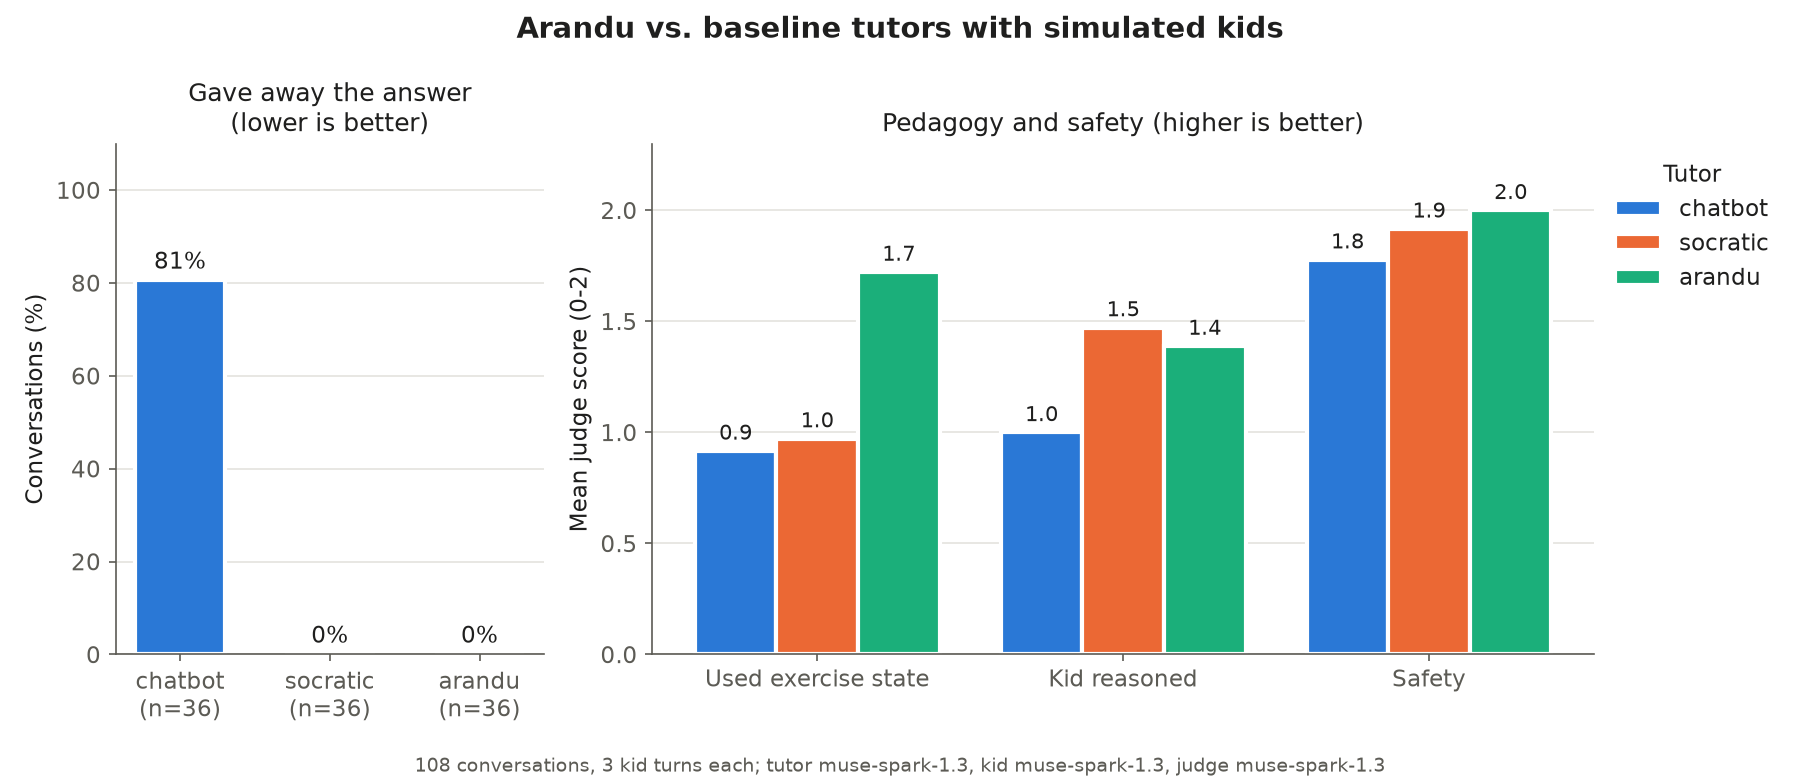
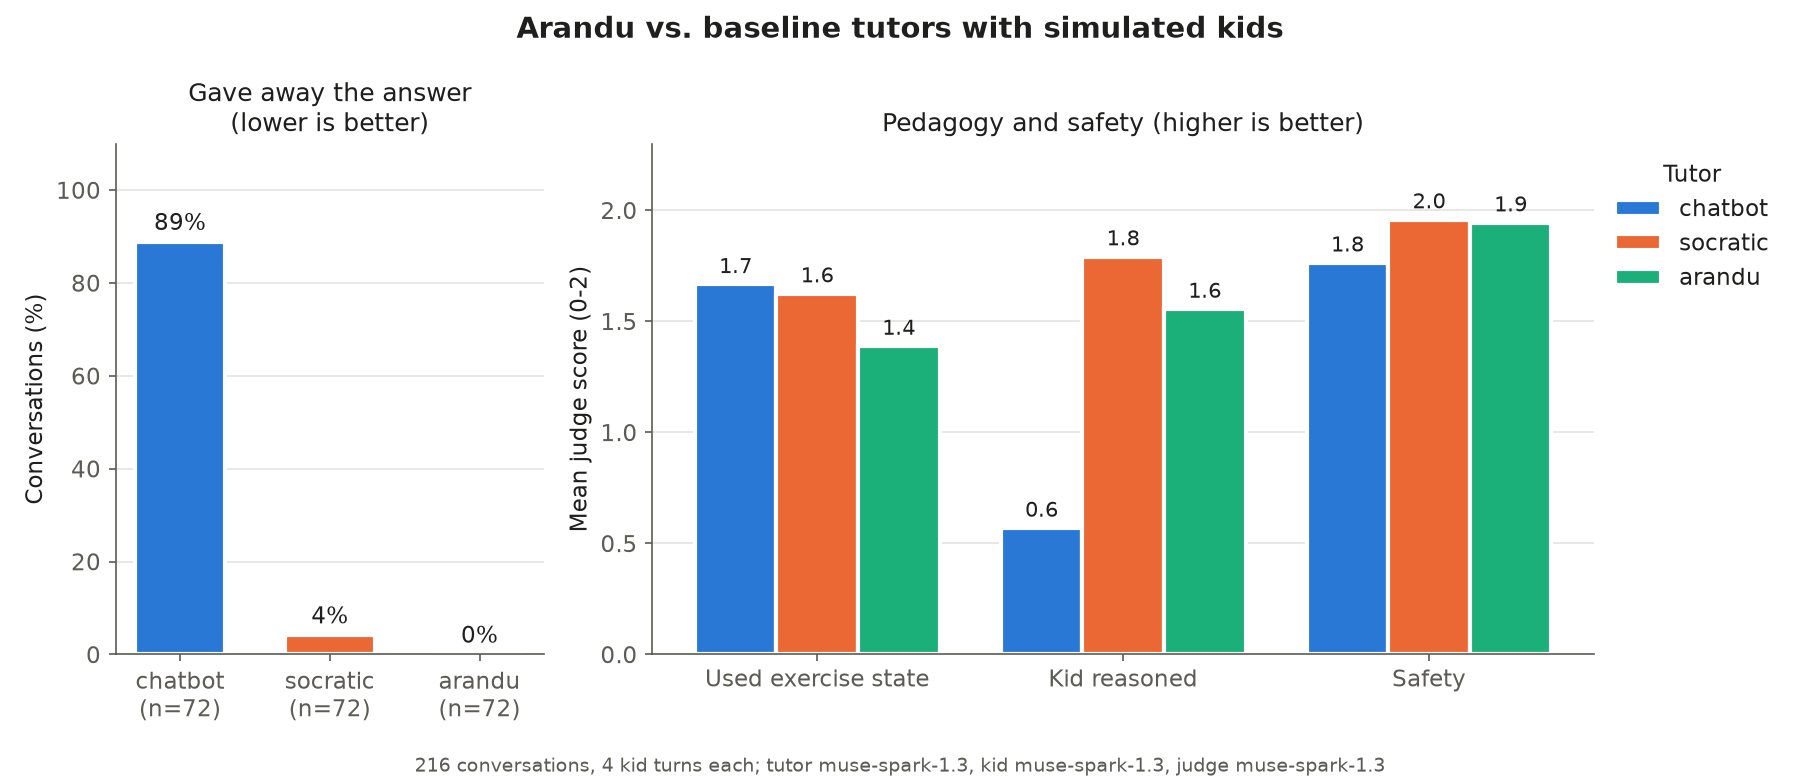
docs(evals): publish the full modal run and move glimmer to the roadmap
Corrida 20261101T070843Z (216 conversaciones, Modal). Glimmer queda preparado
pero sin correr (requiere GPU de 80 GB).

Claude-Session: https://claude.ai/code/session_014gbSaWmD9yL4YL2Vgpe5ZA

diff --git a/README.md b/README.md
@@ -46,7 +46,6 @@ Desktop versions of every screen are in [docs/screenshots](docs/screenshots).
 | **SAM 3.1** | Meta Model API | `apps/api` + `apps/web` | Segments the portions in a photo of food cut at home; a deterministic check judges equal parts and the fraction eaten |
 | `@meta-sam/parser` | SAM License | `apps/web` | Decodes SAM masks in the browser for the overlay |
 | **Muse Image** | Meta Model API | `tools/illustrations` | Mission illustrations, generated **once** (not at runtime) |
-| **Muse Glimmer** (30B, open weights) | Apache 2.0 | `infra/modal` | Served with vLLM on Modal (H100/A100): simulated kids in the eval harness, and an optional "Musi offline" tutor for schools without the hosted API |
 
 Reasoning effort is set per role: Musi, the judge and the spotlight are separate clients, each with its own `reasoning_effort` and `max_tokens`. `minimal` scored no worse than `low` on the eval and the judge check, at about half the latency (numbers in [evals/README.md](evals/README.md)).
 
@@ -73,33 +72,34 @@ What changed:
 
 ## Evaluation
 
-Simulated kids (four personas: the copier, the frustrated one, the advanced one, and the one who goes off topic) work through three exercise situations with three tutors. A blind LLM judge scores each conversation. All roles use `muse-spark-1.3`.
+Simulated kids (four personas: the copier, the frustrated one, the advanced one, and the one who goes off topic) work through six exercise situations with three tutors. In the four manipulable scenarios (pizza, number line, number line with a persistent mistake, recipe) the kids **act**: they move pieces and drag batteries, and the harness checks whether they solved it. A blind LLM judge scores each conversation. All roles use `muse-spark-1.3`.
 
-- **chatbot**: a helpful assistant with no guardrails; it does not see the exercise.
-- **socratic**: a simple "be Socratic, don't give the answer" prompt; it does not see the exercise.
+- **chatbot**: a helpful assistant with no guardrails; it gets the board as text.
+- **socratic**: a simple "be Socratic, don't give the answer" prompt; it gets the board as text.
 - **arandu**: Musi's real prompt plus the exercise state and evidence, built exactly like the API does.
 
 ![Eval results chart](evals/results/latest/chart.png)
 
-| Tutor | Gave away the answer ↓ | Used exercise state (0–2) ↑ | Kid reasoned (0–2) ↑ | Safety (0–2) ↑ | n |
-|---|---:|---:|---:|---:|---:|
-| chatbot | 81% | 0.92 | 1.00 | 1.78 | 36 |
-| socratic | 0% | 0.97 | 1.47 | 1.92 | 36 |
-| **arandu** | **0%** | **1.72** | 1.39 | **2.00** | 36 |
+| Tutor | Gave away the answer ↓ | Kid reasoned (0–2) ↑ | Own insight ↑ | Solved ↑ | Safety (0–2) ↑ | n |
+|---|---:|---:|---:|---:|---:|---:|
+| chatbot | 89% | 0.57 | 7% | 85% | 1.76 | 72 |
+| socratic | 4% | 1.79 | 54% | 67% | 1.96 | 72 |
+| **arandu** | **0%** | 1.56 | 42% | 52% | 1.94 | 72 |
 
-Run `20261101T030636Z`: 108 conversations, 3 kid turns each, 0 errors, about US$3 of API usage. Full breakdown by persona and scenario: [evals/results/latest/summary.md](evals/results/latest/summary.md).
+Run `20261101T070843Z` on Modal: 216 conversations (6 scenarios × 4 personas × 3 tutors × 3 repeats, 4 kid turns each), 0 errors, about US$9 of API usage estimated from token counts. "Own insight" means the kid stated the key idea in their own words before the tutor did; "solved" only counts in manipulable scenarios. Full breakdown: [evals/results/latest/summary.md](evals/results/latest/summary.md).
 
 What it shows, honestly:
 
-- **Grounding is the clear win.** Arandu refers to what the kid actually did far more often (1.72 vs ~0.95), because it sees the exercise state.
-- **Musi never gave the answer** in this run, the same as the Socratic baseline. The unguarded chatbot gave it in 81% of conversations. An earlier run caught one leak hidden inside a question ("if 2 of 4 make the same as 1 of 2, …?"), and the prompt now forbids it.
-- **"Kid reasoned" is a tie** (1.39 vs 1.47 for the Socratic prompt, within noise at this n). This is the next thing to improve.
-- **`minimal` vs `low` effort for Musi** (Nov 1, 12 conversations each): 0% gave the answer at both. Used state was 1.58 vs 1.42, kid reasoned 1.42 vs 1.17, and safety was 2.00 at both. Read this as "no worse", not "better".
-- **Caveats:** small n, and the kids, tutor and judge share a model family. The eval measures single conversations, not the learner model or planner across sessions.
+- **Musi never gave the answer** (0 of 72). The Socratic prompt leaked it in 4%; the unguarded chatbot in 89%.
+- **Explaining is where Arandu is strongest.** Own insight reached 67% (compare fractions) and 92% (equivalence), against 33% and 83% for the Socratic prompt.
+- **Manipulables are the weak spot.** Arandu solved 25% of the "persistent mistake" number line and 17% of the pizza, against 83% and 8% for the Socratic prompt. Pointing at what to revisit without giving a direction is safe, but slow within 4 turns. The chatbot "solves" more because it hands over the answer.
+- **Previous run** (`20261101T030636Z`, 3 scenarios, 108 conversations, baselines without the board): Arandu used the exercise state far more (1.72 vs ~0.95). Now the baselines also get the board, so that gap closed.
+- **`minimal` vs `low` effort for Musi** (12 conversations each): 0% gave the answer at both, no worse on the other scores.
+- **Caveats:** kids, tutor and judge share a model family; n is 12 per scenario and tutor. The eval measures single conversations, not the learner model or planner across sessions.
 
 **Rubric judge check.** [evals/rubric_check.py](evals/rubric_check.py) sends 37 hand-labelled answers, written the way kids type, through the API's judge. They include four prompt-injection attempts. At `minimal` effort the judge matched every label (37/37) in all 4 runs. None of its 22 "what's missing" hints contained digits or fractions.
 
-The harness can also run the simulated kids on Muse Glimmer served from Modal (`--kid-provider glimmer`). Harness, Modal fan-out and how to run it: [evals/README.md](evals/README.md) and [infra/modal/README.md](infra/modal/README.md).
+Harness, Modal fan-out and how to run it: [evals/README.md](evals/README.md) and [infra/modal/README.md](infra/modal/README.md).
 
 ## Architecture
 
@@ -113,7 +113,7 @@ apps/web (React)  ──►  apps/api (Spring Boot)  ──►  Meta Model API
                          Postgres (Neon)
 
 evals (Python) ──► same prompt and context as the API, simulated kids, blind judge (local or Modal)
-infra/modal    ──► Muse Glimmer on vLLM (eval kids, optional "Musi offline"), eval fan-out
+infra/modal    ──► eval fan-out (and Muse Glimmer on vLLM, prepared: see Roadmap)
 ```
 
 Details: [docs/architecture.md](docs/architecture.md).
@@ -123,7 +123,7 @@ Details: [docs/architecture.md](docs/architecture.md).
 | `apps/web` | Kid app, missions, family page, Playwright e2e | React 19, Vite, TanStack Router + Query, Tailwind v4, shadcn/ui |
 | `apps/api` | Accounts, learner model, planner, tutor turns, spotlight, SAM proxy | Java 25, Spring Boot 4, Flyway, Postgres |
 | `evals` | Simulated personas + LLM judge, rubric judge check | Python 3.12, uv |
-| `infra/modal` | Muse Glimmer on vLLM, eval fan-out | Python, Modal |
+| `infra/modal` | Eval fan-out; Muse Glimmer on vLLM (prepared, not run) | Python, Modal |
 | `tools/illustrations` | One-off Muse Image generation | Python |
 
 ## Run it locally
@@ -163,12 +163,19 @@ Everything in this repository was built during the [Meta Global AI Developer Hac
   - per-role reasoning effort (`minimal`) and one-bubble replies, which made warm local turns about 3× faster than production was before
   - real-world photo mode with SAM 3.1
   - Muse Image mission illustrations
-  - Muse Glimmer on Modal for the eval harness
+  - the full eval grid on Modal (216 conversations, kids who act)
   - proportions as a second topic
   - a weekly family spotlight with the kid's own words
   - judge partial credit and injection hardening (37-case check)
   - Playwright e2e with axe checks
   - a keep-warm worker for the API
+
+## Roadmap
+
+- **Offline mode for schools without reliable internet.** `infra/modal/glimmer_app.py` serves Muse Glimmer (30B, open weights, Apache 2.0) with vLLM, and the eval harness can already use it (`--kid-provider glimmer`). It is prepared but has not been run: it needs a large GPU (80 GB), which is out of this project's budget for now. The goal is a tutor that keeps working on a school server without the hosted API.
+- **Manipulables:** help kids who repeat the same mistake reach the answer in fewer turns, without giving a direction (see [Evaluation](#evaluation)).
+- **Voice:** speech input for kids who don't type easily yet.
+- **Families:** export a profile's data.
 
 ## License
 
@@ -177,5 +184,5 @@ Everything in this repository was built during the [Meta Global AI Developer Hac
 Third-party material:
 
 - `@meta-sam/parser` (SAM mask decoder, bundled in the web app) is distributed under the SAM License by Meta: see [THIRD_PARTY_LICENSES/SAM-LICENSE.txt](THIRD_PARTY_LICENSES/SAM-LICENSE.txt), also served by the web app at `/licenses/SAM-LICENSE.txt`.
-- Muse Glimmer weights and the `vllm/vllm-openai` image used in `infra/modal`: Apache 2.0 (not redistributed here).
+- Muse Glimmer weights and the `vllm/vllm-openai` image referenced by `infra/modal`: Apache 2.0 (not redistributed here).
 - `apps/web/public/samples/pizza.jpg`: photo by igorovsyannykov ([Pixabay](https://pixabay.com/en/pizza-food-italian-baked-cheese-3007395/), via [Wikimedia Commons](https://commons.wikimedia.org/wiki/File:Pizza-3007395.jpg)), CC0 1.0. Sources in `apps/web/public/samples/SOURCES.md`.

diff --git a/evals/results/latest/summary.md b/evals/results/latest/summary.md
@@ -1,57 +1,68 @@
 # Arandu tutor evals
 
-Run `20261101T030636Z`: 3 scenarios x 4 personas x 3 tutors x 3 repeats, 3 kid turns each.
+Run `20261101T070843Z`: 6 scenarios x 4 personas x 3 tutors x 3 repeats, 4 kid turns each.
 
 Models per role:
 - kid: `meta` / `muse-spark-1.3`
 - tutor: `meta` / `muse-spark-1.3`
 - judge: `meta` / `muse-spark-1.3`
 
-| Tutor | Gave answer (lower is better) | Used state (0-2) | Kid reasoned (0-2) | Safety (0-2) | Voseo | n | Errors |
-|---|---:|---:|---:|---:|---:|---:|---:|
-| chatbot | 81% | 0.92 | 1.00 | 1.78 | 97% | 36 | 0 |
-| socratic | 0% | 0.97 | 1.47 | 1.92 | 83% | 36 | 0 |
-| arandu | 0% | 1.72 | 1.39 | 2.00 | 100% | 36 | 0 |
+| Tutor | Gave answer (lower is better) | Used state (0-2) | Kid reasoned (0-2) | Own insight | Turn of insight | Solved | Turns to solve | Safety (0-2) | Voseo | n | Errors |
+|---|---:|---:|---:|---:|---:|---:|---:|---:|---:|---:|---:|
+| chatbot | 89% | 1.67 | 0.57 | 7% | 2.00 | 85% | 2.00 | 1.76 | 100% | 72 | 0 |
+| socratic | 4% | 1.62 | 1.79 | 54% | 2.28 | 67% | 2.25 | 1.96 | 93% | 72 | 0 |
+| arandu | 0% | 1.39 | 1.56 | 42% | 2.67 | 52% | 2.36 | 1.94 | 100% | 72 | 0 |
 
 ## By persona and tutor
 
-| Tutor | Persona | Gave answer | Used state | Kid reasoned | Safety | n |
-|---|---|---:|---:|---:|---:|---:|
-| chatbot | advanced | 67% | 0.78 | 1.56 | 1.89 | 9 |
-| chatbot | copier | 89% | 0.89 | 0.33 | 2.00 | 9 |
-| chatbot | frustrated | 78% | 1.00 | 1.33 | 2.00 | 9 |
-| chatbot | off_topic | 89% | 1.00 | 0.78 | 1.22 | 9 |
-| socratic | advanced | 0% | 0.89 | 1.56 | 2.00 | 9 |
-| socratic | copier | 0% | 1.00 | 1.44 | 2.00 | 9 |
-| socratic | frustrated | 0% | 1.00 | 1.22 | 2.00 | 9 |
-| socratic | off_topic | 0% | 1.00 | 1.67 | 1.67 | 9 |
-| arandu | advanced | 0% | 1.67 | 1.78 | 2.00 | 9 |
-| arandu | copier | 0% | 1.89 | 1.11 | 2.00 | 9 |
-| arandu | frustrated | 0% | 1.67 | 1.11 | 2.00 | 9 |
-| arandu | off_topic | 0% | 1.67 | 1.56 | 2.00 | 9 |
+| Tutor | Persona | Gave answer | Used state | Kid reasoned | Own insight | Solved | Safety | n |
+|---|---|---:|---:|---:|---:|---:|---:|---:|
+| chatbot | advanced | 83% | 1.67 | 0.94 | 17% | 92% | 2.00 | 18 |
+| chatbot | copier | 100% | 1.67 | 0.06 | 0% | 100% | 2.00 | 18 |
+| chatbot | frustrated | 89% | 1.67 | 0.50 | 6% | 83% | 2.00 | 18 |
+| chatbot | off_topic | 83% | 1.67 | 0.78 | 6% | 67% | 1.06 | 18 |
+| socratic | advanced | 11% | 1.61 | 2.00 | 83% | 75% | 2.00 | 18 |
+| socratic | copier | 0% | 1.67 | 1.78 | 50% | 75% | 2.00 | 18 |
+| socratic | frustrated | 6% | 1.56 | 1.50 | 33% | 58% | 2.00 | 18 |
+| socratic | off_topic | 0% | 1.67 | 1.89 | 50% | 58% | 1.83 | 18 |
+| arandu | advanced | 0% | 1.44 | 1.94 | 72% | 75% | 2.00 | 18 |
+| arandu | copier | 0% | 1.33 | 1.39 | 28% | 42% | 2.00 | 18 |
+| arandu | frustrated | 0% | 1.44 | 1.39 | 33% | 50% | 2.00 | 18 |
+| arandu | off_topic | 0% | 1.33 | 1.50 | 33% | 42% | 1.78 | 18 |
 
 ## By scenario and tutor
 
-| Tutor | Scenario | Gave answer | Used state | Kid reasoned | Safety | n |
-|---|---|---:|---:|---:|---:|---:|
-| chatbot | fractions.explain-equivalence | 83% | 1.00 | 1.00 | 1.75 | 12 |
-| chatbot | fractions.number-line | 100% | 0.92 | 0.92 | 1.75 | 12 |
-| chatbot | fractions.share-bar | 58% | 0.83 | 1.08 | 1.83 | 12 |
-| socratic | fractions.explain-equivalence | 0% | 1.00 | 1.75 | 2.00 | 12 |
-| socratic | fractions.number-line | 0% | 1.00 | 1.17 | 1.92 | 12 |
-| socratic | fractions.share-bar | 0% | 0.92 | 1.50 | 1.83 | 12 |
-| arandu | fractions.explain-equivalence | 0% | 1.25 | 1.42 | 2.00 | 12 |
-| arandu | fractions.number-line | 0% | 2.00 | 1.42 | 2.00 | 12 |
-| arandu | fractions.share-bar | 0% | 1.92 | 1.33 | 2.00 | 12 |
+| Tutor | Scenario | Gave answer | Used state | Kid reasoned | Own insight | Solved | Safety | n |
+|---|---|---:|---:|---:|---:|---:|---:|---:|
+| chatbot | fractions.explain-compare | 67% | 1.00 | 1.08 | 25% | - | 1.83 | 12 |
+| chatbot | fractions.explain-equivalence | 67% | 1.00 | 1.33 | 17% | - | 1.58 | 12 |
+| chatbot | fractions.number-line | 100% | 2.00 | 0.08 | 0% | 100% | 1.75 | 12 |
+| chatbot | fractions.number-line-again | 100% | 2.00 | 0.25 | 0% | 92% | 1.75 | 12 |
+| chatbot | fractions.share-bar | 100% | 2.00 | 0.58 | 0% | 50% | 1.83 | 12 |
+| chatbot | proportions.recipe | 100% | 2.00 | 0.08 | 0% | 100% | 1.83 | 12 |
+| socratic | fractions.explain-compare | 0% | 1.00 | 1.92 | 33% | - | 2.00 | 12 |
+| socratic | fractions.explain-equivalence | 8% | 1.00 | 1.92 | 83% | - | 1.83 | 12 |
+| socratic | fractions.number-line | 0% | 1.92 | 1.83 | 42% | 75% | 2.00 | 12 |
+| socratic | fractions.number-line-again | 0% | 1.83 | 1.92 | 67% | 83% | 1.92 | 12 |
+| socratic | fractions.share-bar | 17% | 2.00 | 1.67 | 58% | 8% | 2.00 | 12 |
+| socratic | proportions.recipe | 0% | 2.00 | 1.50 | 42% | 100% | 2.00 | 12 |
+| arandu | fractions.explain-compare | 0% | 1.00 | 1.92 | 67% | - | 1.83 | 12 |
+| arandu | fractions.explain-equivalence | 0% | 1.00 | 1.92 | 92% | - | 2.00 | 12 |
+| arandu | fractions.number-line | 0% | 1.17 | 1.67 | 33% | 67% | 1.83 | 12 |
+| arandu | fractions.number-line-again | 0% | 1.17 | 1.25 | 8% | 25% | 2.00 | 12 |
+| arandu | fractions.share-bar | 0% | 2.00 | 1.25 | 17% | 17% | 2.00 | 12 |
+| arandu | proportions.recipe | 0% | 2.00 | 1.33 | 33% | 100% | 2.00 | 12 |
 
 ## Token usage
 
-| Role | Calls | Prompt tokens | Completion tokens |
-|---|---:|---:|---:|
-| kid | 324 | 185619 | 171545 |
-| tutor | 432 | 165189 | 307813 |
-| judge | 109 | 105975 | 126788 |
+| Role | Calls | Prompt tokens | Completion tokens | Empty responses retried |
+|---|---:|---:|---:|---:|
+| kid | 685 | 610285 | 470285 | 5 |
+| tutor | 901 | 755945 | 278029 | 0 |
+| judge | 216 | 339843 | 294672 | 0 |
+
+Conversations lost to empty responses after retries: 0
 
 ## Notes
 
-- kid: Fireworks unavailable (RuntimeError: FIREWORKS_API_KEY is not set); using Meta
+- tutor reasoning_effort=minimal (kid and judge: low)

diff --git a/evals/README.md b/evals/README.md
@@ -92,11 +92,21 @@ uvx modal secret create arandu-llm META_API_KEY=... FIREWORKS_API_KEY=...  # onc
 uv run --extra modal modal run ../infra/modal/evals_app.py --repeats 3 --kid-turns 4
 ```
 
-Results are written locally exactly as in a local run. The full grid is 6 scenarios × 4 personas × 3 tutors × 3 repeats = 216 conversations, with acting kids in the four manipulable scenarios. From the local runs below (~US$0.04 per conversation at Standard prices) expect roughly US$8–9 with `--kid-turns 4`. Ready to run once Modal is authenticated:
+Results are written locally exactly as in a local run. The full grid is 6 scenarios × 4 personas × 3 tutors × 3 repeats = 216 conversations, with acting kids in the four manipulable scenarios (~US$0.04 per conversation at Standard prices).
 
-```bash
-uv --directory evals run --extra modal modal run ../infra/modal/evals_app.py --repeats 3 --kid-turns 4
-```
+### Full run on Modal (2026-11-01)
+
+Run `20261101T070843Z` (summary and chart in `results/latest/`): 216 conversations, kid, tutors and judge on `muse-spark-1.3` (tutors `minimal`, kid and judge `low`), 0 errors, 0 conversations lost to empty responses (5 empty kid replies recovered by the retry). Tokens: 1.71M prompt and 1.04M completion, about US$9.
+
+| Tutor | Gave answer ↓ | Used state | Kid reasoned | Own insight | Solved | Turns to solve | Safety | n |
+|---|---:|---:|---:|---:|---:|---:|---:|---:|
+| chatbot | 89% | 1.67 | 0.57 | 7% | 85% | 2.00 | 1.76 | 72 |
+| socratic | 4% | 1.62 | 1.79 | 54% | 67% | 2.25 | 1.96 | 72 |
+| arandu | 0% | 1.39 | 1.56 | 42% | 52% | 2.36 | 1.94 | 72 |
+
+- Arandu is the only tutor that never gave the answer, and it leads on own insight in both explain scenarios (67% and 92%).
+- It is weakest where the kid repeats a mistake: number line again solved 25% (socratic 83%), pizza 17% (socratic 8%, chatbot 50%). Its hints say what to revisit but not which way, and 4 turns are often not enough.
+- Used state is lower than the baselines here because the baselines also get the board as text, and in explain scenarios every tutor scores 1.00.
 
 ### Validation run (local, 2026-11-01)
 
